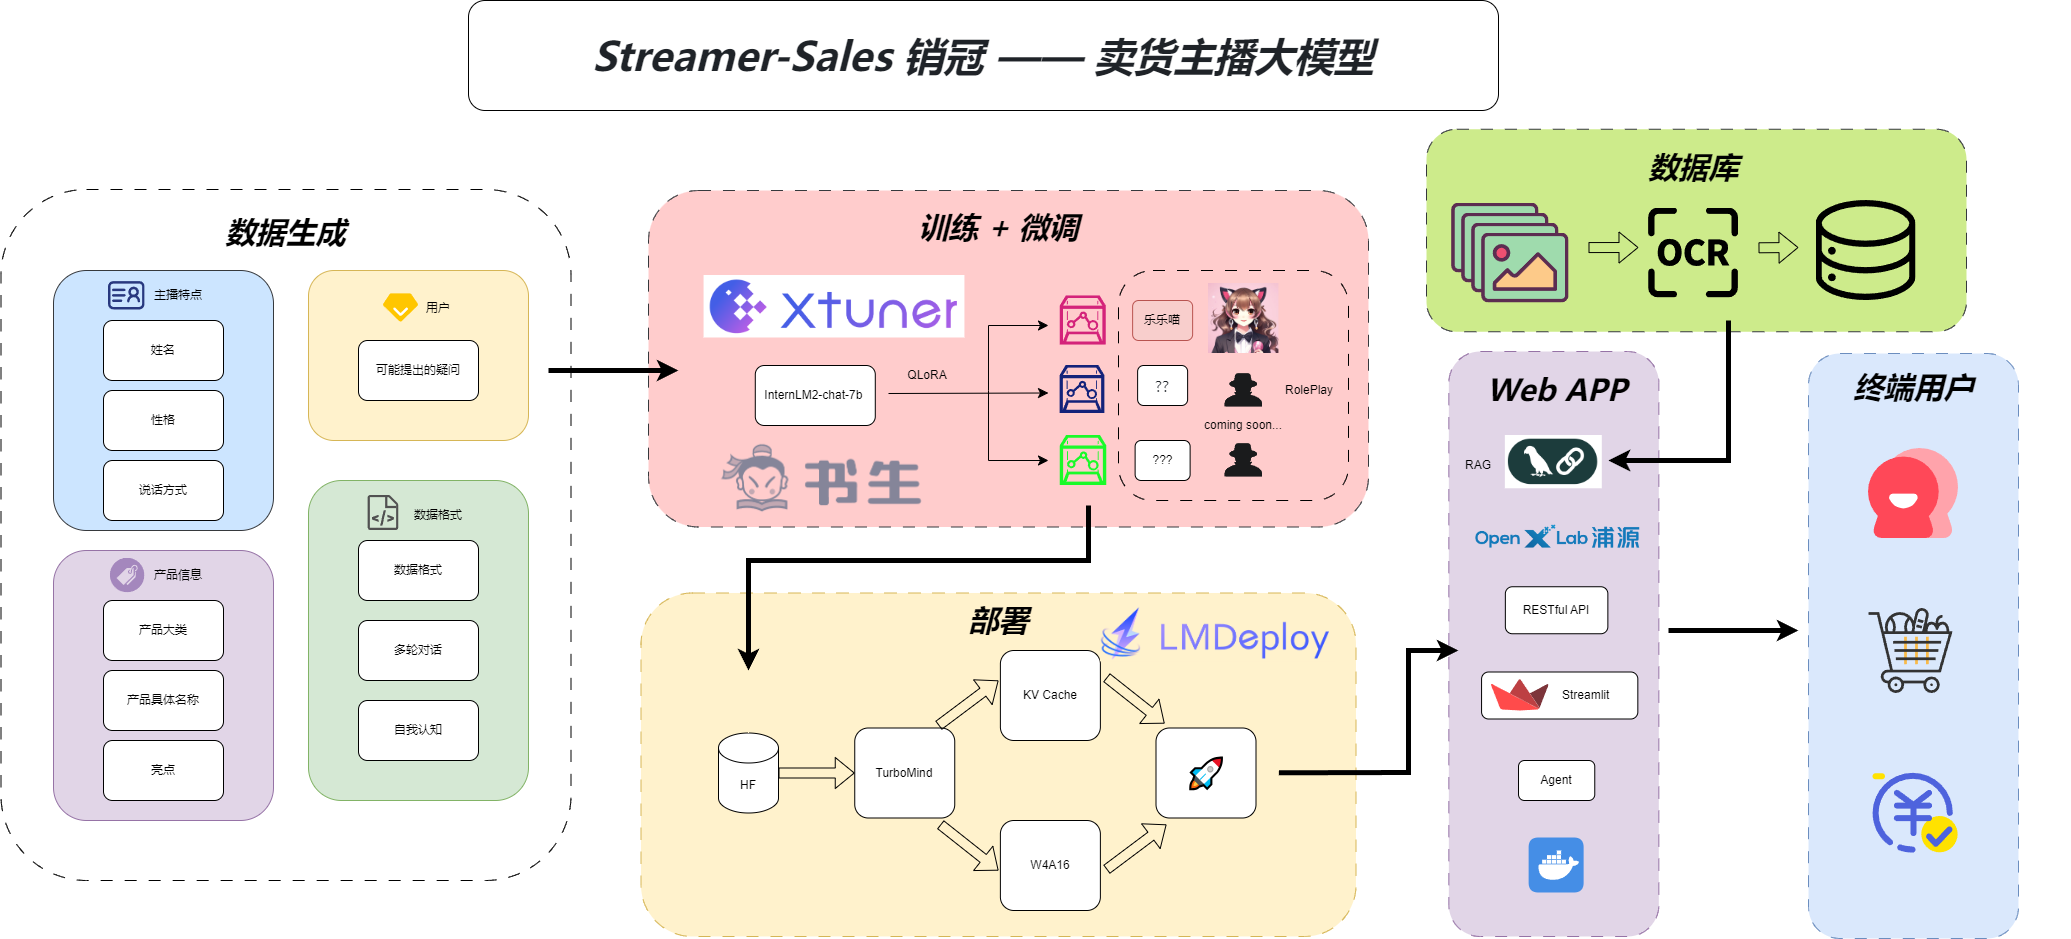
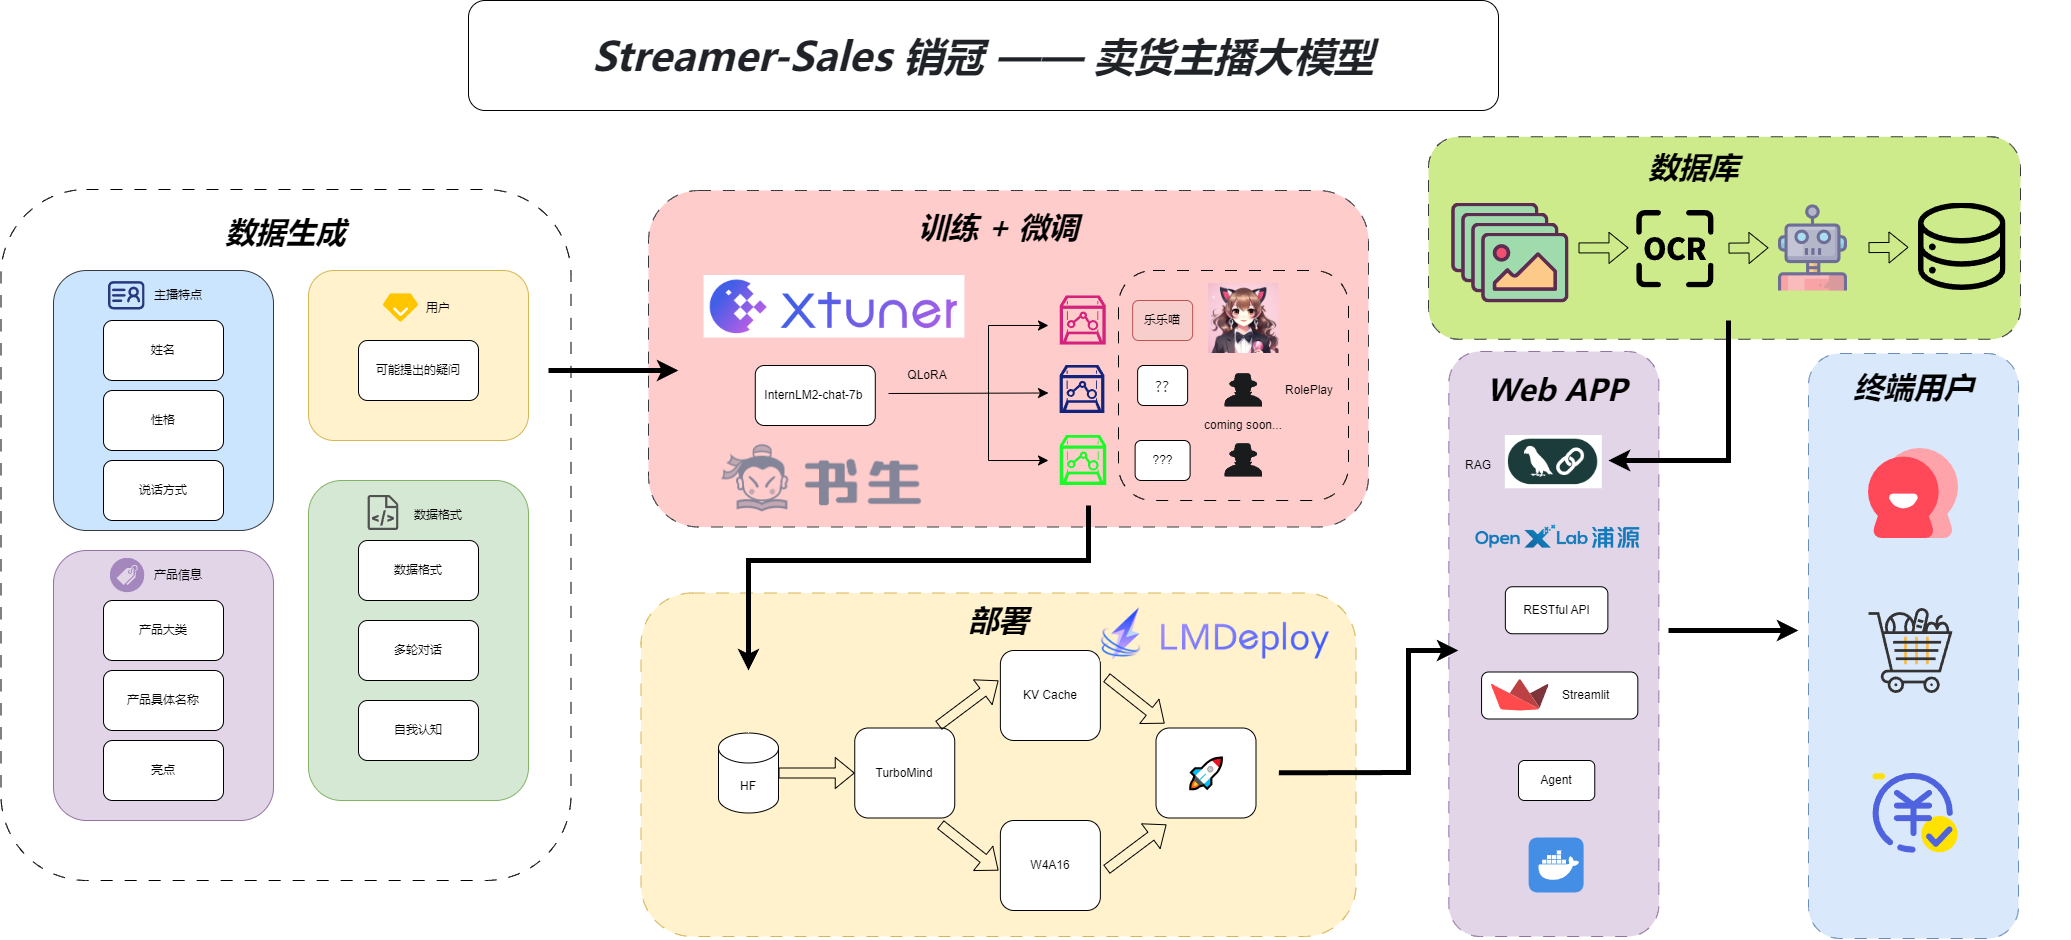
完善文档

diff --git a/pages/selling_page.py b/pages/selling_page.py
@@ -34,7 +34,7 @@ def init_sidebar():
     with st.sidebar:
         # 标题
         st.markdown("## 销冠 —— 卖货主播大模型")
-        "[销冠 —— 卖货主播大模型 Github repo](https://github.com/PeterH0323/Streamer-Sales)"
+        st.markdown("[销冠 —— 卖货主播大模型 Github repo](https://github.com/PeterH0323/Streamer-Sales)")
 
         st.subheader("目前讲解")
         with st.container(height=400, border=True):
@@ -75,8 +75,6 @@ def init_sidebar():
 
 
 def main(meta_instruction):
-
-
 
     # 检查页面切换状态并进行切换
     if st.session_state.page_switch != st.session_state.current_page:

diff --git a/app.py b/app.py
@@ -294,7 +294,7 @@ def main(model_dir, using_lmdeploy, enable_rag):
     with st.sidebar:
         # 标题
         st.markdown("## 销冠 —— 卖货主播大模型")
-        "[销冠 —— 卖货主播大模型 Github repo](https://github.com/PeterH0323/Streamer-Sales)"
+        st.markdown("[销冠 —— 卖货主播大模型 Github repo](https://github.com/PeterH0323/Streamer-Sales)")
 
         st.markdown(f"## 主播后台信息")
         st.markdown(f"共有商品：{len(product_name_list)} 件")

diff --git a/README.md b/README.md
@@ -41,6 +41,7 @@ license: Apache License 2.0
 
 - [2024.05.22] 支持上传新商品，上传后会自动生成数据库
 - [2024.05.21] 接入 RAG，主播每次回答问题都会借鉴说明书，**实现加商品无需微调即可让回答更加贴近商品实际**
+- [2024.05.19] 新增说明书生成脚本，可以根据网页图片快速生成说明书，具体逻辑：Web 图片 -> OCR -> LLM -> 说明书
 - [2024.05.15] 接入 [LMDeploy](https://github.com/InternLM/lmdeploy)，**推理效率提升 3倍+** 🚀🚀🚀
 - [2024.05.10] 发布【乐乐喵】4 bit 模型
 - [2024.04.16] 发布【乐乐喵】模型，完成初版页面
